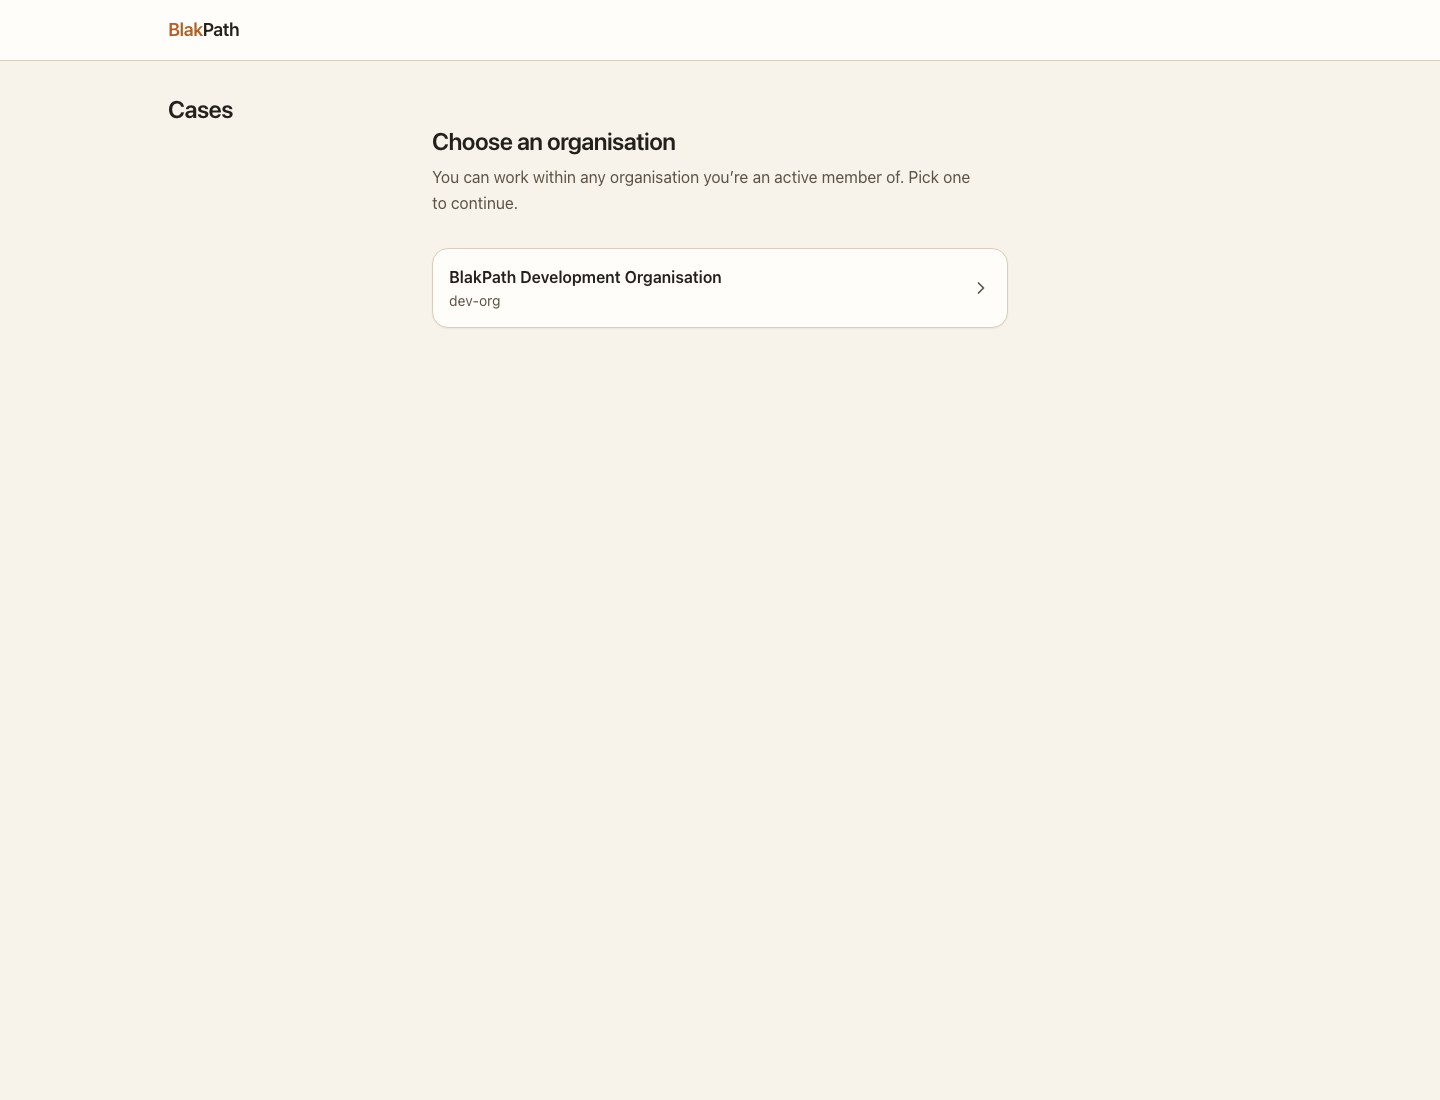
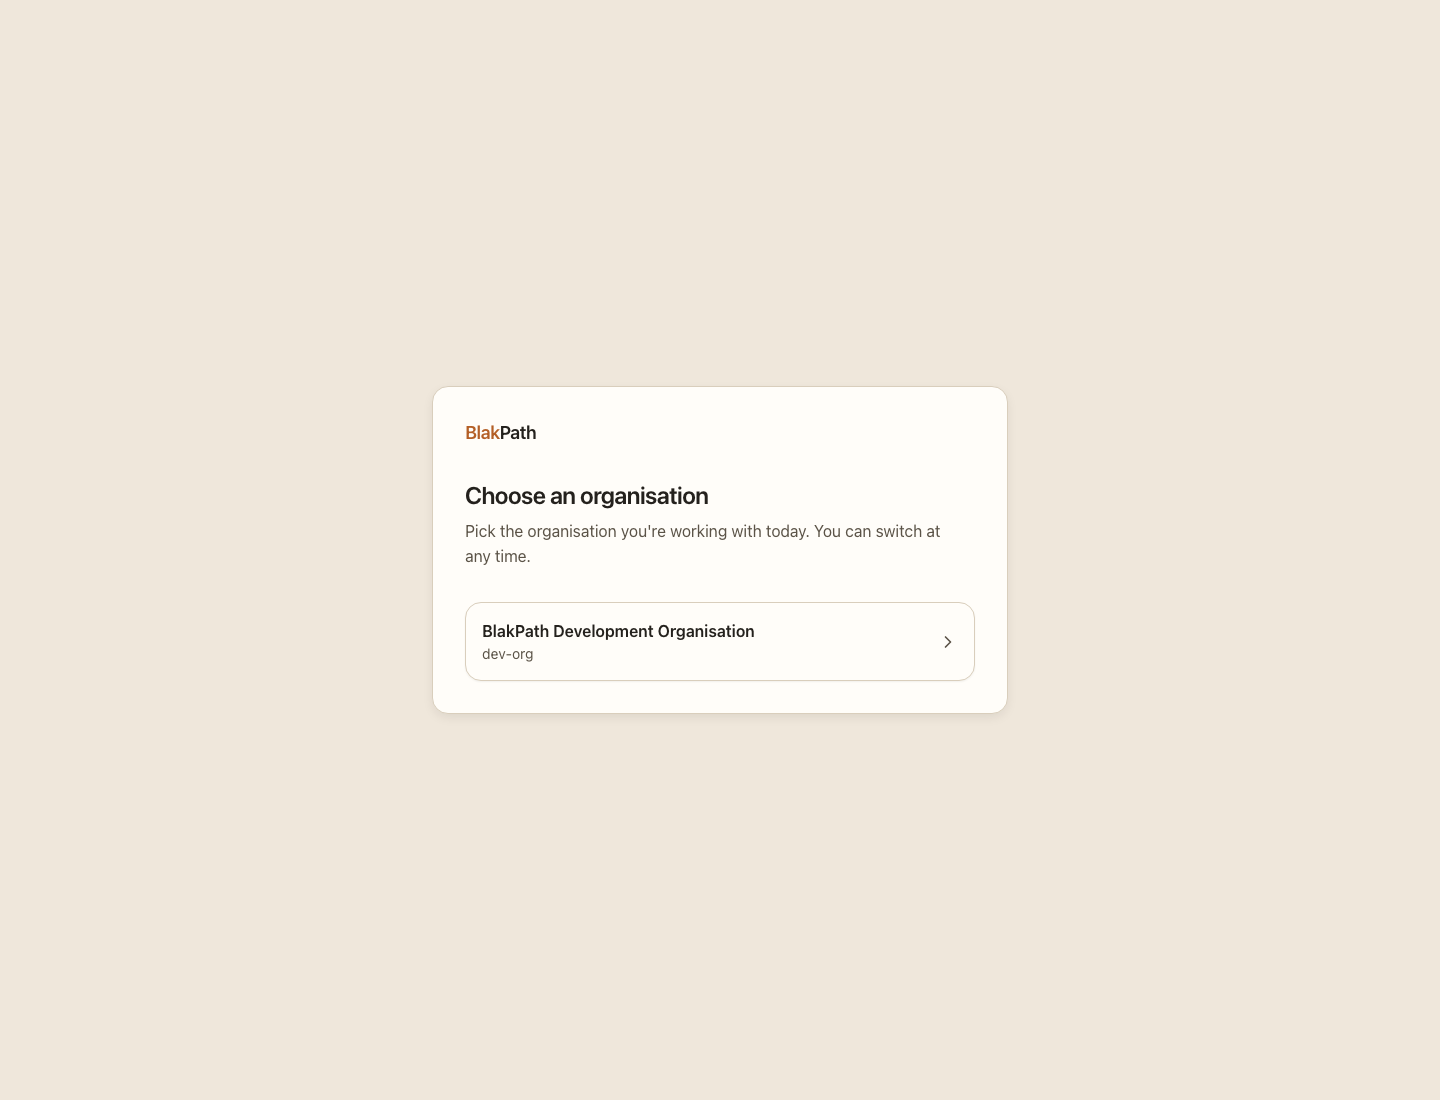
fix(ci): restore Trivy security scan and refresh README

diff --git a/scripts/capture-readme-screenshots.ts b/scripts/capture-readme-screenshots.ts
@@ -44,7 +44,6 @@ function signSessionData(input: {
   if (!authSecret) {
     throw new Error('SCREENSHOT_AUTH_SECRET or BETTER_AUTH_SECRET is required.');
   }
-
   const payload = JSON.stringify({ ...input.session, expiresAt: input.expiresAt });
   const signature = crypto
     .createHmac('sha256', authSecret)
@@ -58,10 +57,7 @@ async function setActiveOrganisation(page: Page, organisationId: string): Promis
   const sessionDataCookie = cookies.find(
     (cookie) => cookie.name === '__Secure-blakpath.session_data',
   );
-  if (!sessionDataCookie) {
-    throw new Error('session cache cookie is missing');
-  }
-
+  if (!sessionDataCookie) throw new Error('session cache cookie is missing');
   const decoded = JSON.parse(
     Buffer.from(sessionDataCookie.value, 'base64').toString('utf8'),
   ) as {
@@ -73,10 +69,8 @@ async function setActiveOrganisation(page: Page, organisationId: string): Promis
     };
     expiresAt: number;
   };
-
   decoded.session.session.activeOrganisationId = organisationId;
   decoded.session.updatedAt = Date.now();
-
   await page.context().addCookies([
     {
       name: sessionDataCookie.name,
@@ -128,7 +122,6 @@ async function main() {
     await page.getByLabel('Email').fill(email);
     await page.getByLabel('Password').fill(password);
     await page.getByRole('button', { name: 'Sign in', exact: true }).click();
-
     await page.waitForTimeout(6000);
 
     const memberships = await page.evaluate(async () => {
@@ -153,7 +146,7 @@ async function main() {
     await page.goto(pageUrl('/dashboard'), { waitUntil: 'domcontentloaded' });
 
     await page.getByRole('heading', { name: 'Dashboard' }).waitFor();
-    await page.getByRole('button', { name: 'Reset layout' }).waitFor();
+    await page.getByRole('button', { name: 'Reset section order' }).waitFor();
     await page.screenshot({ path: output('dashboard.png'), fullPage: true });
 
     await capture(
@@ -161,7 +154,7 @@ async function main() {
       '/board',
       async () => {
         await page.getByRole('heading', { name: 'Work board' }).waitFor();
-        await page.getByText('Review intake documents').waitFor();
+        await page.getByRole('button', { name: 'Add task' }).waitFor();
       },
       'work-board.png',
     );
@@ -171,7 +164,7 @@ async function main() {
       '/forms',
       async () => {
         await page.getByRole('heading', { name: 'Forms' }).waitFor();
-        await page.getByText('Supporting information').waitFor();
+        await page.getByRole('button', { name: 'Create a form' }).waitFor();
       },
       'forms.png',
     );

diff --git a/README.md b/README.md
@@ -39,6 +39,22 @@ easy to scan.
 
 </details>
 
+## A straightforward staff workspace
+
+The staff workspace is designed for people who should not need to understand
+the platform's underlying systems to use it.
+
+- The top navigation takes staff directly to the dashboard, work board,
+  meetings, forms and account settings.
+- The dashboard starts with clear counts and visual workload charts, then
+  highlights items that need attention.
+- The work board has an **Add task** action and accepts drops into every column,
+  including an empty one.
+- Empty pages explain what the page is for and offer the next useful action,
+  such as creating the first form.
+- Calendar files use plain-language actions: **Add calendar file** and
+  **Download calendar file**.
+
 ## The one rule everything else serves
 
 > **BlakPath never determines Aboriginality.**
@@ -126,6 +142,7 @@ The app runs at <http://localhost:3000>.
 | `pnpm lint`        | ESLint                                        |
 | `pnpm test`        | Unit + integration tests (Vitest)             |
 | `pnpm test:e2e`    | End-to-end tests (Playwright)                 |
+| `pnpm screenshot`  | Refresh the README screenshot gallery         |
 | `pnpm db:generate` | Generate a migration from schema changes      |
 | `pnpm db:migrate`  | Apply migrations                              |
 | `pnpm db:studio`   | Open Drizzle Studio                           |